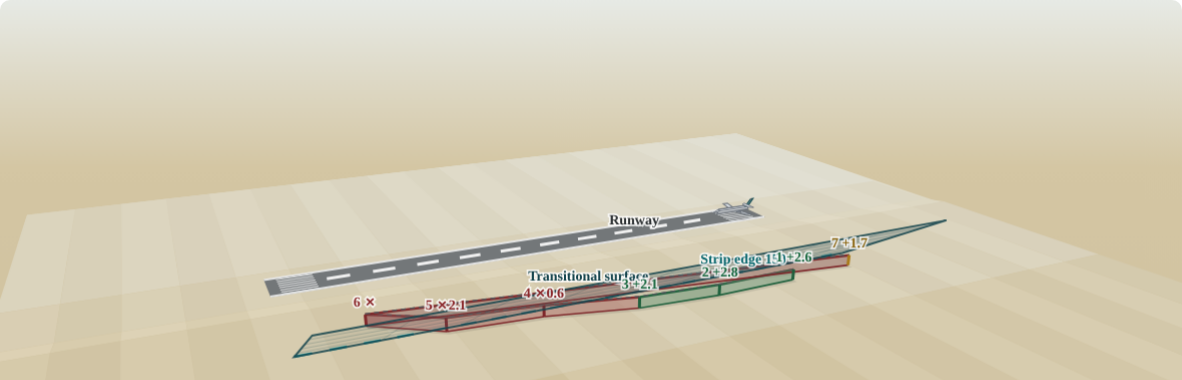
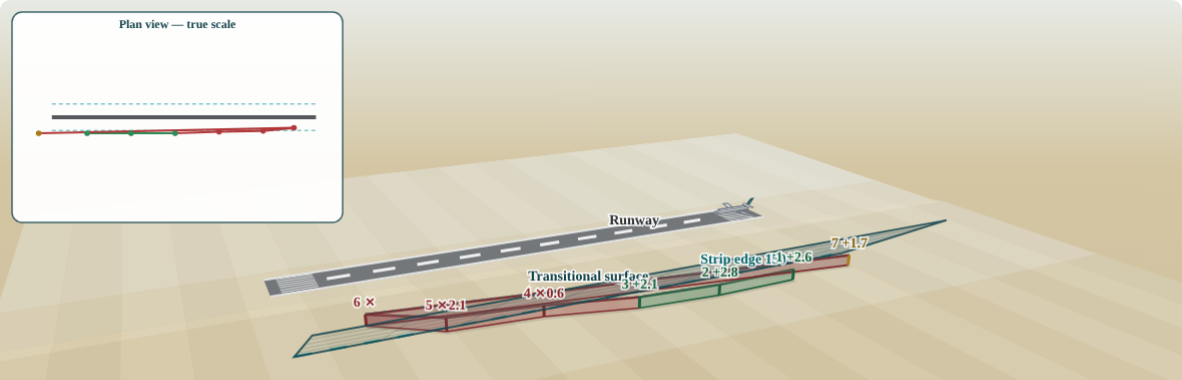
Refresh batch screenshot with the plan inset
Claude-Session: https://claude.ai/code/session_016K8PezLbrb9epiNj9AzwU5

Changed region(s): [[0.0, 0.0289, 0.3046, 0.6079]]

diff --git a/README.md b/README.md
@@ -18,7 +18,7 @@ An open-source, single-file, bilingual (Arabic/English) educational tool that le
 - Instant verdict with penetration/margin and the minimum compliant distance — حكم فوري مع مقدار الاختراق أو الهامش والحد الأدنى للمسافة
 - Full lateral OLS profile: transitional, inner horizontal (45 m default) and conical (5%) surfaces — المقطع الجانبي كامل: السطح الانتقالي والأفقي الداخلي والمخروطي
 - Object types: mesh fence or tower crane, plus a parked aircraft on the runway for scale — نوع الجسم: سور شبكي أو رافعة برجية، مع طائرة على المدرج لإحساس الحجم
-- Batch check: define the centreline by its two thresholds, then paste a point table straight from Excel or attach a CSV, .xlsx or .docx file (read natively, no libraries) — per-point verdicts with distance, station, governing surface and margin, the whole fence drawn in the 3D scene coloured by verdict with the aircraft taking off and landing when every point clears, click any row to highlight it, export results as CSV — فحص جماعي: عرّف المحور بالعتبتين وألصق جدول النقاط من الإكسل أو أرفق ملفاً، وحكم لكل نقطة مع تصدير النتائج
+- Batch check: define the centreline by its two thresholds, then paste a point table straight from Excel or attach a CSV, .xlsx or .docx file (read natively, no libraries) — per-point verdicts with distance, station, governing surface and margin, the whole fence drawn in the 3D scene coloured by verdict plus a true-scale plan inset of its real shape, with the aircraft taking off and landing when every point clears, click any row to highlight it, export results as CSV — فحص جماعي: عرّف المحور بالعتبتين وألصق جدول النقاط من الإكسل أو أرفق ملفاً، وحكم لكل نقطة مع تصدير النتائج
 - Works fully offline, no libraries, no network — one HTML file — يعمل بلا إنترنت وبلا مكتبات، ملف واحد
 - Light/dark aware, phone friendly — يدعم الوضع الليلي والجوال
 
